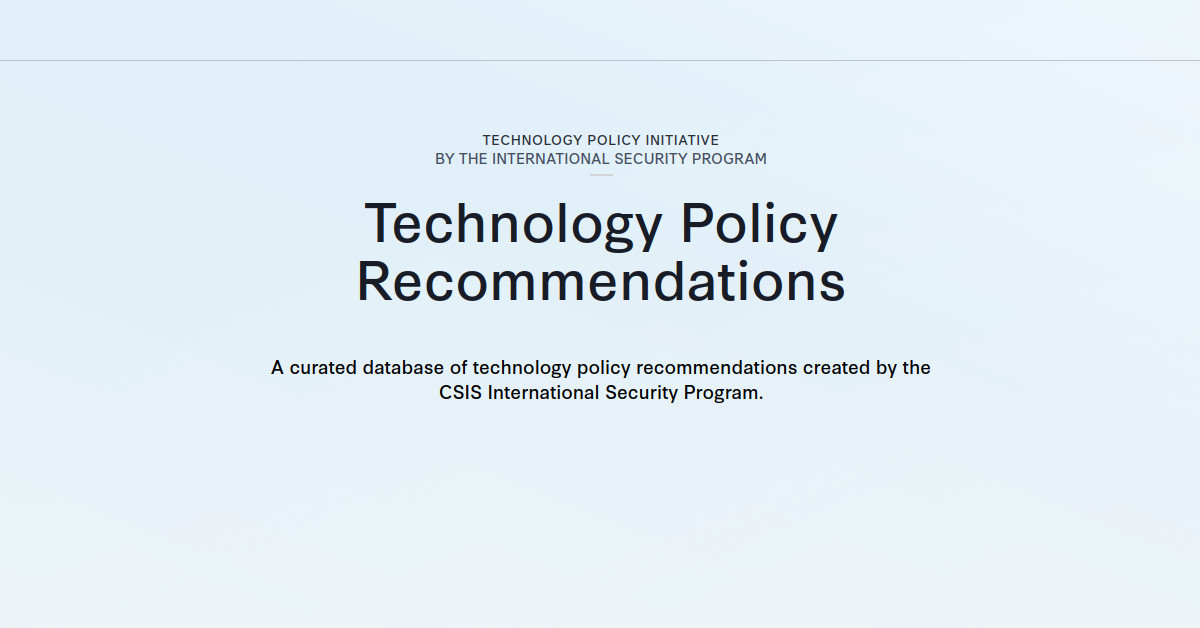
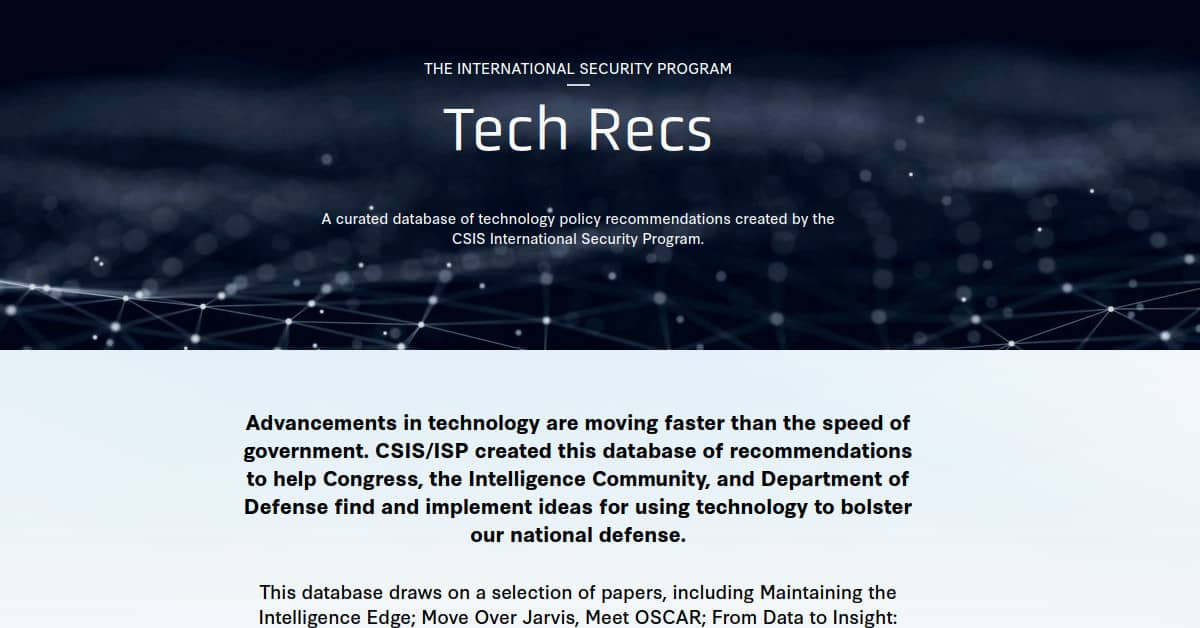
Update OG image

diff --git a/public/index.html b/public/index.html
@@ -52,19 +52,15 @@
     <script defer src="/build/bundle.js"></script>
 
     <!-- Google tag (gtag.js) - Google Analytics -->
-    <script
-      async
-      src="https://www.googletagmanager.com/gtag/js?id=G-V03MEDLH2S"
-    ></script>
+    <script async src="https://www.googletagmanager.com/gtag/js?id=G-V03MEDLH2S"></script>
     <script>
-      window.dataLayer = window.dataLayer || []
-      function gtag() {
-        dataLayer.push(arguments)
-      }
-      gtag('js', new Date())
+      window.dataLayer = window.dataLayer || [];
+      function gtag(){dataLayer.push(arguments);}
+      gtag('js', new Date());
 
-      gtag('config', 'G-V03MEDLH2S')
+      gtag('config', 'G-V03MEDLH2S');
     </script>
+
   </head>
 
   <body></body>
